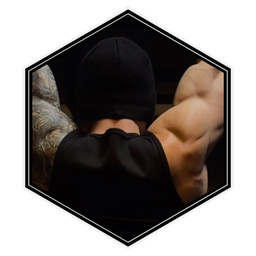
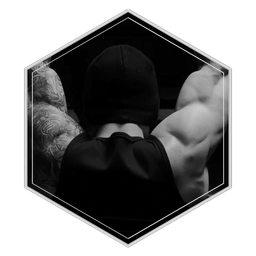
Add files via upload

Changed region(s): [[0.0938, 0.0312, 0.9062, 0.9688]]

diff --git a/index.html b/index.html
@@ -247,13 +247,33 @@ footer .egg-wrap{margin-bottom:12px}
 .fig-label{max-width:none;display:flex;align-items:center;white-space:nowrap}
 .fig-label .declass{margin:0 0 0 14px}
 @media (max-width:520px){.fig-label{flex-wrap:wrap;white-space:normal}.fig-label .declass{margin:8px 0 0}}
-.board{background-image:none}
 .contact div p+p{margin-top:18px}
 .contact .quip{font-size:16px;line-height:1.5;color:var(--letter-dim)}
 .contact div p.quip:first-of-type,.contact div p+.quip{margin-top:28px}
 .contact div .quip+.quip{margin-top:14px}
 @media (pointer:coarse){.top nav a,a.more{display:inline-flex;align-items:center;min-height:44px}}
 @media (max-width:600px){.ops-list li{grid-template-columns:minmax(0,1fr);gap:6px;font-size:17px}}
+
+/* ===== blueprint (2026-10-22): one full-bleed drafting grid, matching the NRG schematic wallpapers ===== */
+body{background-color:#0f1216;
+  background-image:
+    linear-gradient(rgba(185,188,194,.07) 1px,transparent 1px),
+    linear-gradient(90deg,rgba(185,188,194,.07) 1px,transparent 1px),
+    linear-gradient(rgba(185,188,194,.035) 1px,transparent 1px),
+    linear-gradient(90deg,rgba(185,188,194,.035) 1px,transparent 1px);
+  background-size:160px 160px,160px 160px,32px 32px,32px 32px;
+  background-position:-1px -1px,-1px -1px,-1px -1px,-1px -1px;
+  background-attachment:fixed}
+.board,.board.plain,.sec,footer{background-color:transparent;background-image:none}
+.board.plain,.sec{border-color:rgba(185,188,194,.14)}
+footer{border-top:1px solid rgba(185,188,194,.14)}
+/* crop marks on the hero, like a drawing sheet */
+header.board .wrap{position:relative}
+header.board .wrap::before,header.board .wrap::after{content:"";position:absolute;width:22px;height:22px;border:1.5px solid rgba(185,188,194,.35);pointer-events:none}
+header.board .wrap::before{top:14px;left:6px;border-right:0;border-bottom:0}
+header.board .wrap::after{bottom:14px;right:6px;border-left:0;border-top:0}
+/* Gannon row as a drawing title block */
+.plaque.plaque-row{border:1px solid rgba(185,188,194,.35);border-left:3px solid var(--pin);background:rgba(15,18,22,.72);padding:18px 22px;outline:0}
 </style>
 </head>
 <body>
